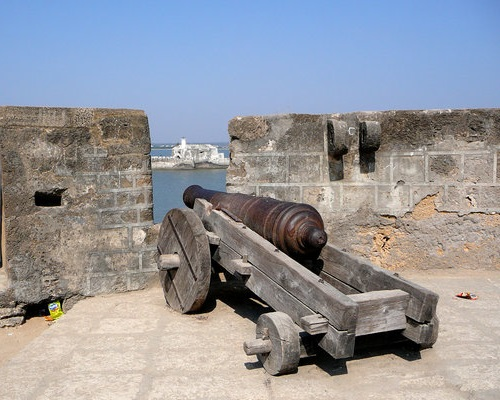
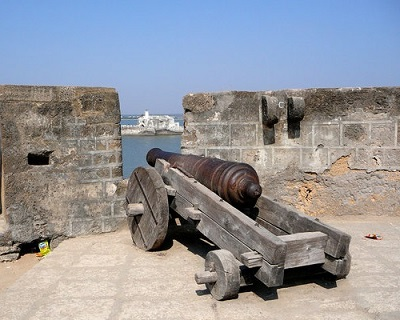
added border

diff --git a/css/stylesheet.css b/css/stylesheet.css
@@ -375,3 +375,7 @@ p {
     height: 500px;
     width: 50%;
 }
+
+div li img {
+    border: 1px solid black;
+}
